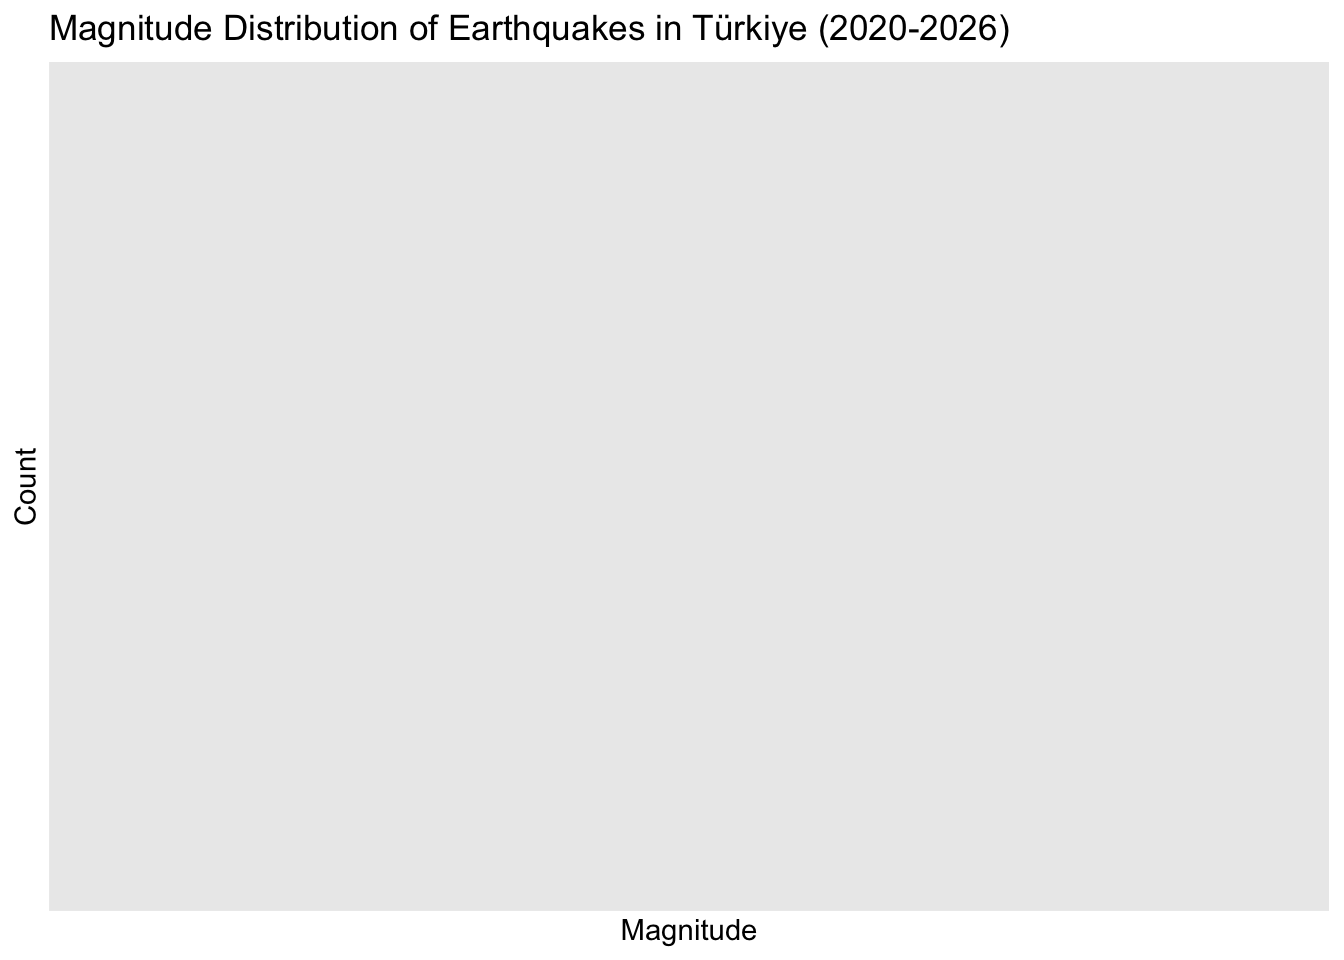
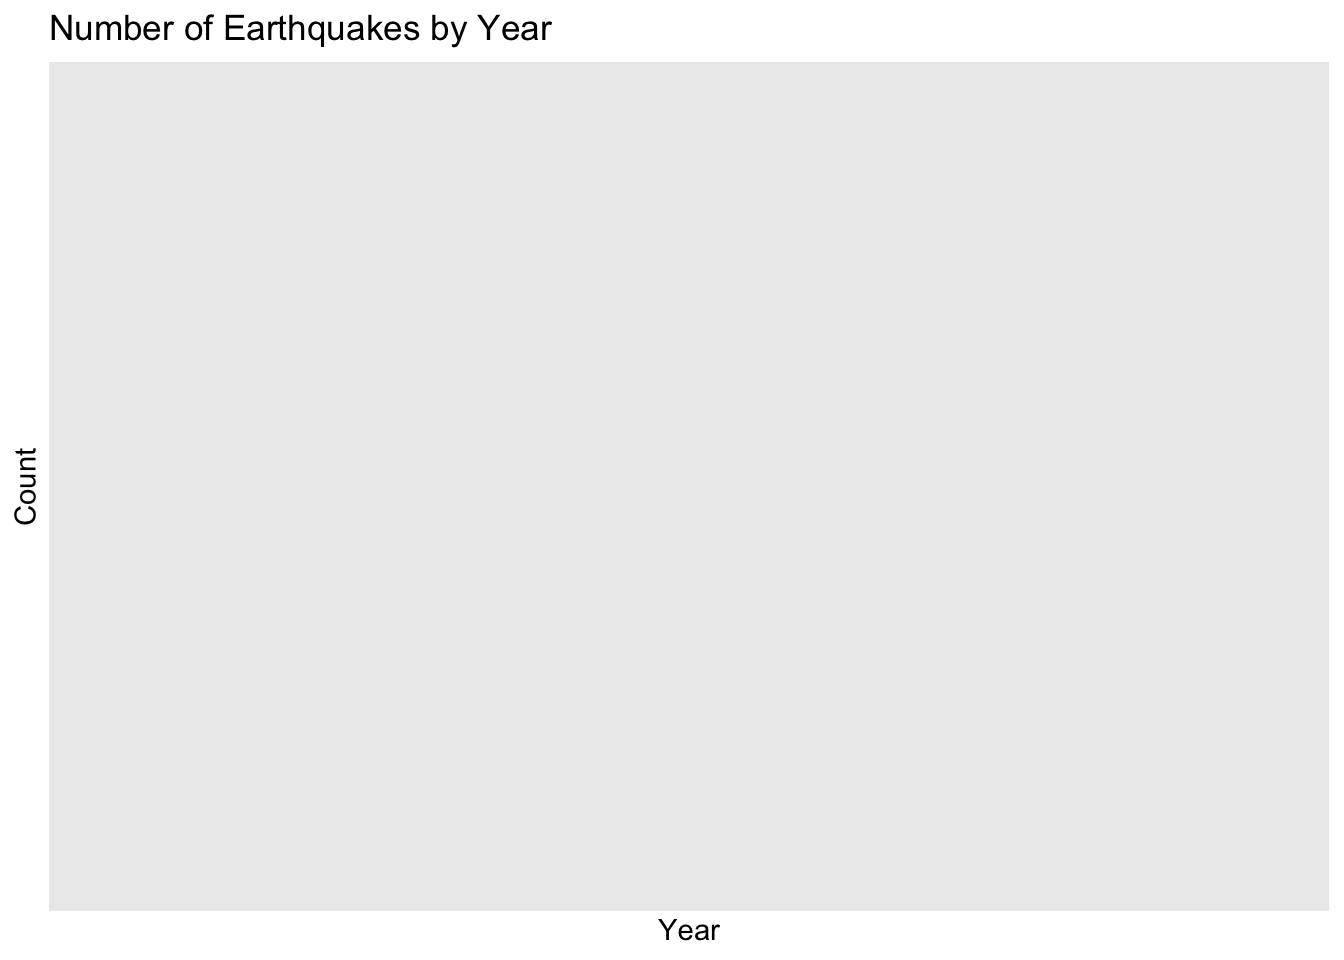
fix problem

Changed region(s): [[0.0312, 0.0, 0.75, 0.0625], [0.4688, 0.9375, 0.5625, 1.0]]

diff --git a/docs/index.html b/docs/index.html
@@ -21,6 +21,41 @@ ul.task-list li input[type="checkbox"] {
   margin: 0 0.8em 0.2em -1em; /* quarto-specific, see https://github.com/quarto-dev/quarto-cli/issues/4556 */ 
   vertical-align: middle;
 }
+/* CSS for syntax highlighting */
+html { -webkit-text-size-adjust: 100%; }
+pre > code.sourceCode { white-space: pre; position: relative; }
+pre > code.sourceCode > span { display: inline-block; line-height: 1.25; }
+pre > code.sourceCode > span:empty { height: 1.2em; }
+.sourceCode { overflow: visible; }
+code.sourceCode > span { color: inherit; text-decoration: inherit; }
+div.sourceCode { margin: 1em 0; }
+pre.sourceCode { margin: 0; }
+@media screen {
+div.sourceCode { overflow: auto; }
+}
+@media print {
+pre > code.sourceCode { white-space: pre-wrap; }
+pre > code.sourceCode > span { text-indent: -5em; padding-left: 5em; }
+}
+pre.numberSource code
+  { counter-reset: source-line 0; }
+pre.numberSource code > span
+  { position: relative; left: -4em; counter-increment: source-line; }
+pre.numberSource code > span > a:first-child::before
+  { content: counter(source-line);
+    position: relative; left: -1em; text-align: right; vertical-align: baseline;
+    border: none; display: inline-block;
+    -webkit-touch-callout: none; -webkit-user-select: none;
+    -khtml-user-select: none; -moz-user-select: none;
+    -ms-user-select: none; user-select: none;
+    padding: 0 4px; width: 4em;
+  }
+pre.numberSource { margin-left: 3em;  padding-left: 4px; }
+div.sourceCode
+  {   }
+@media screen {
+pre > code.sourceCode > span > a:first-child::before { text-decoration: underline; }
+}
 </style>
 
 
@@ -208,14 +243,43 @@ ul.task-list li input[type="checkbox"] {
 <h2 class="anchored" data-anchor-id="preprocessing">2.4 Preprocessing</h2>
 <p>The raw data required several preparation steps before analysis:</p>
 <ul>
-<li><p>The dataset was imported from an Excel file using the <code>readxl</code> library.</p></li>
-<li><p>The <code>Date</code> column was converted into <code>POSIXct</code> format to enable time-based analysis.</p></li>
-<li><p>The <code>Magnitude</code> column was converted into numeric format.</p></li>
-<li><p>The cleaned dataset was saved as an <code>.RData</code> file for reproducibility.</p></li>
-<li><p>Only earthquakes between 2020 and 2026 were included in the analysis.</p></li>
-<li><p>Only earthquakes with a magnitude greater than 3 were included.</p></li>
+<li>The dataset was imported from an Excel file using the <code>readxl</code> library.</li>
+<li>The <code>Date</code> column was converted into <code>POSIXct</code> format.</li>
+<li>The <code>Magnitude</code> column was converted into numeric format.</li>
+<li>Only earthquakes between 2020 and 2026 were included.</li>
+<li>Only earthquakes with magnitude greater than 3 were included.</li>
 </ul>
 <div class="cell">
+<div class="code-copy-outer-scaffold"><div class="sourceCode cell-code" id="cb1"><pre class="sourceCode r code-with-copy"><code class="sourceCode r"><span id="cb1-1"><a href="#cb1-1" aria-hidden="true" tabindex="-1"></a><span class="fu">library</span>(readxl)</span>
+<span id="cb1-2"><a href="#cb1-2" aria-hidden="true" tabindex="-1"></a><span class="fu">library</span>(dplyr)</span></code></pre></div><button title="Copy to Clipboard" class="code-copy-button"><i class="bi"></i></button></div>
+<div class="cell-output cell-output-stderr">
+<pre><code>
+Attaching package: 'dplyr'</code></pre>
+</div>
+<div class="cell-output cell-output-stderr">
+<pre><code>The following objects are masked from 'package:stats':
+
+    filter, lag</code></pre>
+</div>
+<div class="cell-output cell-output-stderr">
+<pre><code>The following objects are masked from 'package:base':
+
+    intersect, setdiff, setequal, union</code></pre>
+</div>
+<div class="code-copy-outer-scaffold"><div class="sourceCode cell-code" id="cb5"><pre class="sourceCode r code-with-copy"><code class="sourceCode r"><span id="cb5-1"><a href="#cb5-1" aria-hidden="true" tabindex="-1"></a>deprem_data <span class="ot">&lt;-</span> <span class="fu">read_excel</span>(<span class="st">"~/Desktop/R/data.xlsx"</span>)</span>
+<span id="cb5-2"><a href="#cb5-2" aria-hidden="true" tabindex="-1"></a></span>
+<span id="cb5-3"><a href="#cb5-3" aria-hidden="true" tabindex="-1"></a>deprem_data<span class="sc">$</span>Date <span class="ot">&lt;-</span> <span class="fu">as.POSIXct</span>(deprem_data<span class="sc">$</span>Date)</span>
+<span id="cb5-4"><a href="#cb5-4" aria-hidden="true" tabindex="-1"></a></span>
+<span id="cb5-5"><a href="#cb5-5" aria-hidden="true" tabindex="-1"></a>deprem_data<span class="sc">$</span>Magnitude <span class="ot">&lt;-</span> <span class="fu">as.numeric</span>(deprem_data<span class="sc">$</span>Magnitude)</span>
+<span id="cb5-6"><a href="#cb5-6" aria-hidden="true" tabindex="-1"></a></span>
+<span id="cb5-7"><a href="#cb5-7" aria-hidden="true" tabindex="-1"></a>deprem_data <span class="ot">&lt;-</span> deprem_data <span class="sc">%&gt;%</span></span>
+<span id="cb5-8"><a href="#cb5-8" aria-hidden="true" tabindex="-1"></a>  <span class="fu">filter</span>(</span>
+<span id="cb5-9"><a href="#cb5-9" aria-hidden="true" tabindex="-1"></a>    Date <span class="sc">&gt;=</span> <span class="fu">as.POSIXct</span>(<span class="st">"2020-01-01"</span>),</span>
+<span id="cb5-10"><a href="#cb5-10" aria-hidden="true" tabindex="-1"></a>    Date <span class="sc">&lt;=</span> <span class="fu">as.POSIXct</span>(<span class="st">"2026-12-31"</span>)</span>
+<span id="cb5-11"><a href="#cb5-11" aria-hidden="true" tabindex="-1"></a>  ) <span class="sc">%&gt;%</span></span>
+<span id="cb5-12"><a href="#cb5-12" aria-hidden="true" tabindex="-1"></a>  <span class="fu">filter</span>(<span class="sc">!</span><span class="fu">is.na</span>(Magnitude), Magnitude <span class="sc">&gt;</span> <span class="dv">3</span>)</span>
+<span id="cb5-13"><a href="#cb5-13" aria-hidden="true" tabindex="-1"></a></span>
+<span id="cb5-14"><a href="#cb5-14" aria-hidden="true" tabindex="-1"></a><span class="fu">cat</span>(<span class="st">"Final dataset contains"</span>, <span class="fu">nrow</span>(deprem_data), <span class="st">"observations."</span>)</span></code></pre></div><button title="Copy to Clipboard" class="code-copy-button"><i class="bi"></i></button></div>
 <div class="cell-output cell-output-stdout">
 <pre><code>Final dataset contains 0 observations.</code></pre>
 </div>
@@ -234,7 +298,7 @@ ul.task-list li input[type="checkbox"] {
 <div class="cell-output-display">
 <div>
 <figure class="figure">
-<p><img src="earthquake_project_files/figure-html/unnamed-chunk-2-1.png" class="img-fluid figure-img" width="672"></p>
+<p><img src="earthquake_project_files/figure-html/unnamed-chunk-1-1.png" class="img-fluid figure-img" width="672"></p>
 </figure>
 </div>
 </div>
@@ -247,7 +311,7 @@ ul.task-list li input[type="checkbox"] {
 <div class="cell-output-display">
 <div>
 <figure class="figure">
-<p><img src="earthquake_project_files/figure-html/unnamed-chunk-3-1.png" class="img-fluid figure-img" width="672"></p>
+<p><img src="earthquake_project_files/figure-html/unnamed-chunk-2-1.png" class="img-fluid figure-img" width="672"></p>
 </figure>
 </div>
 </div>
